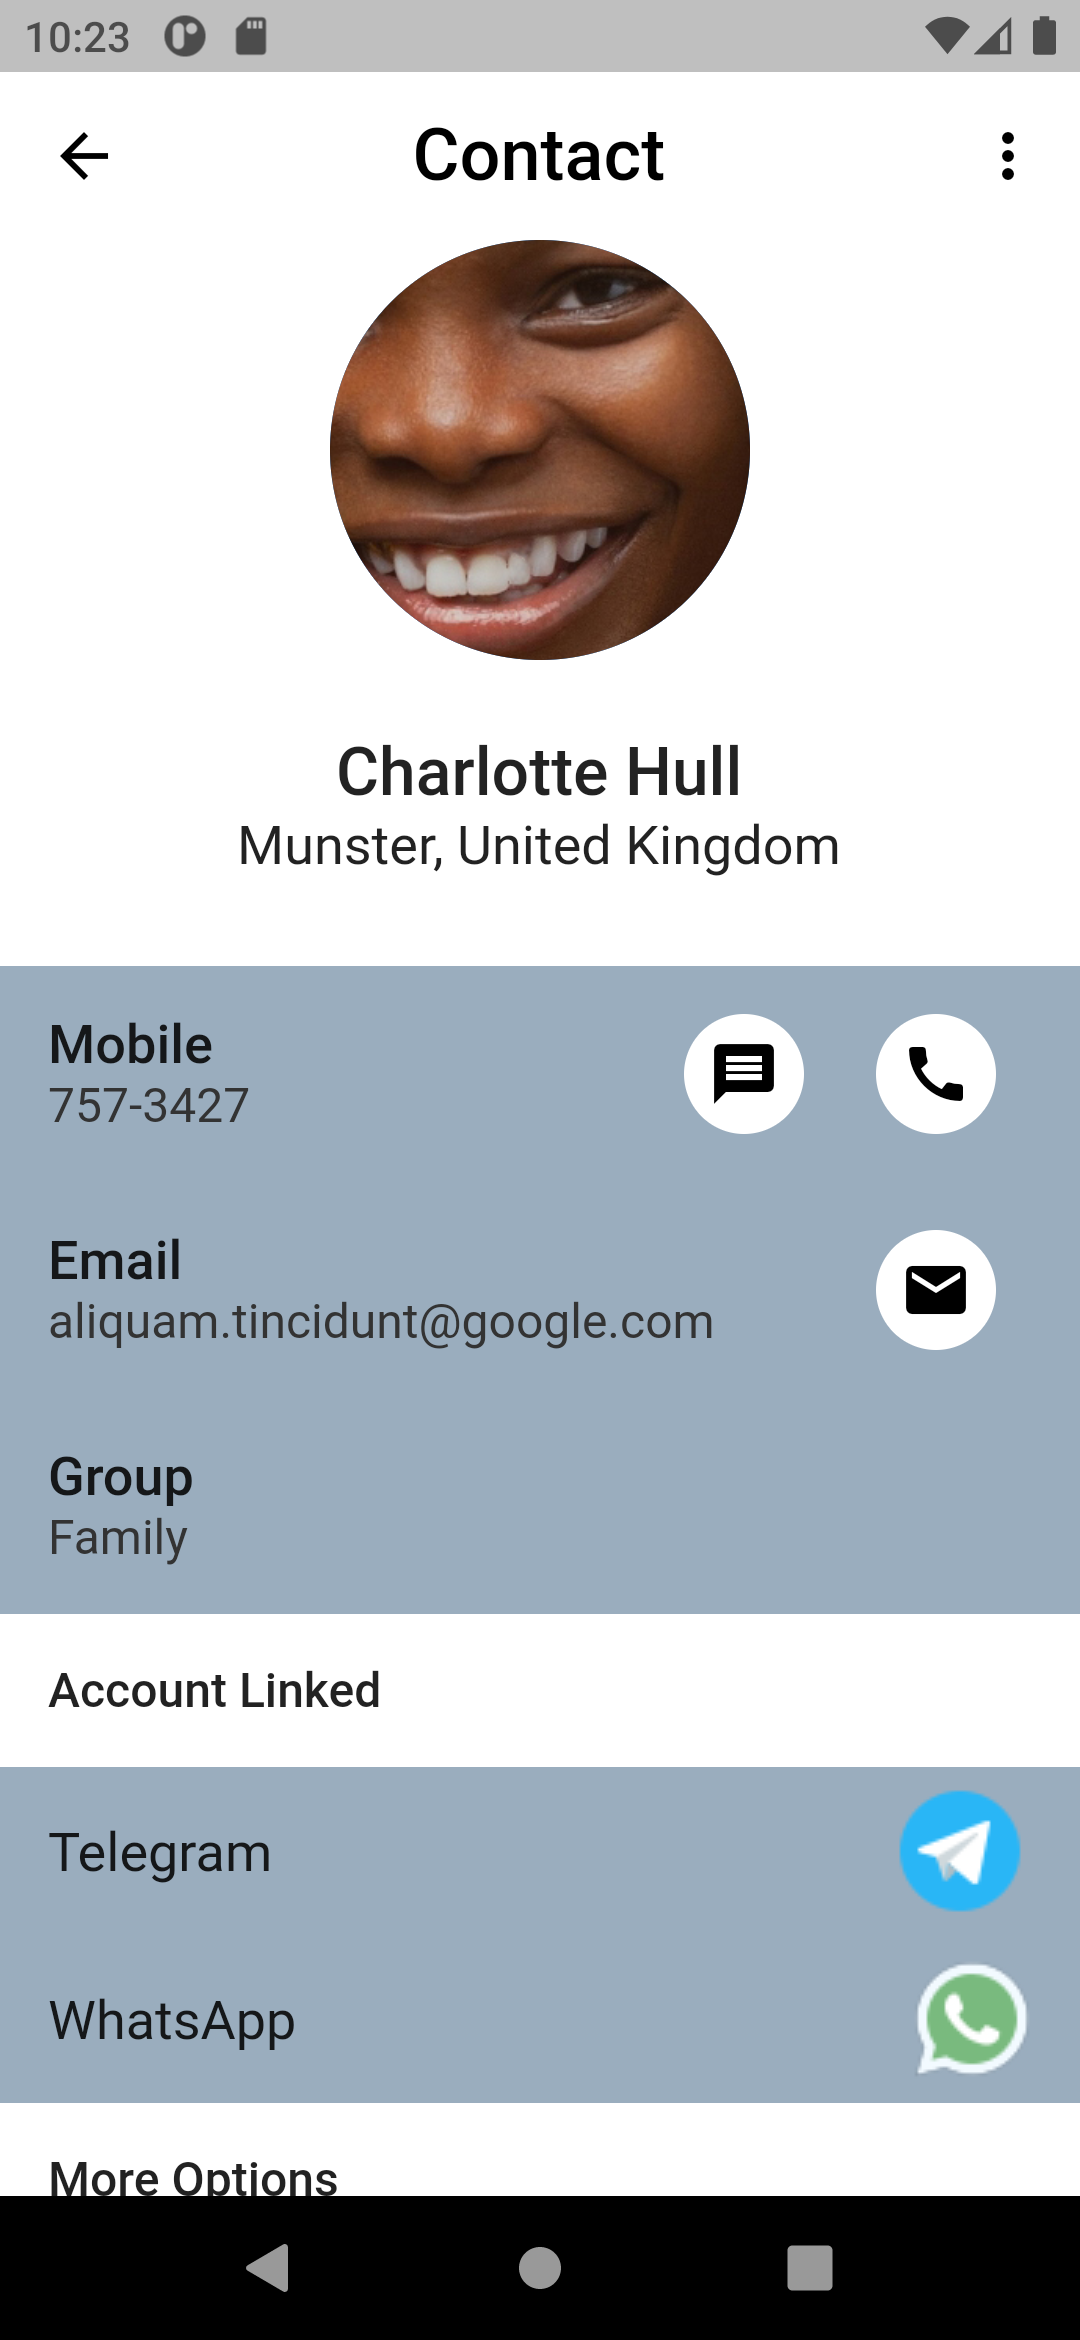
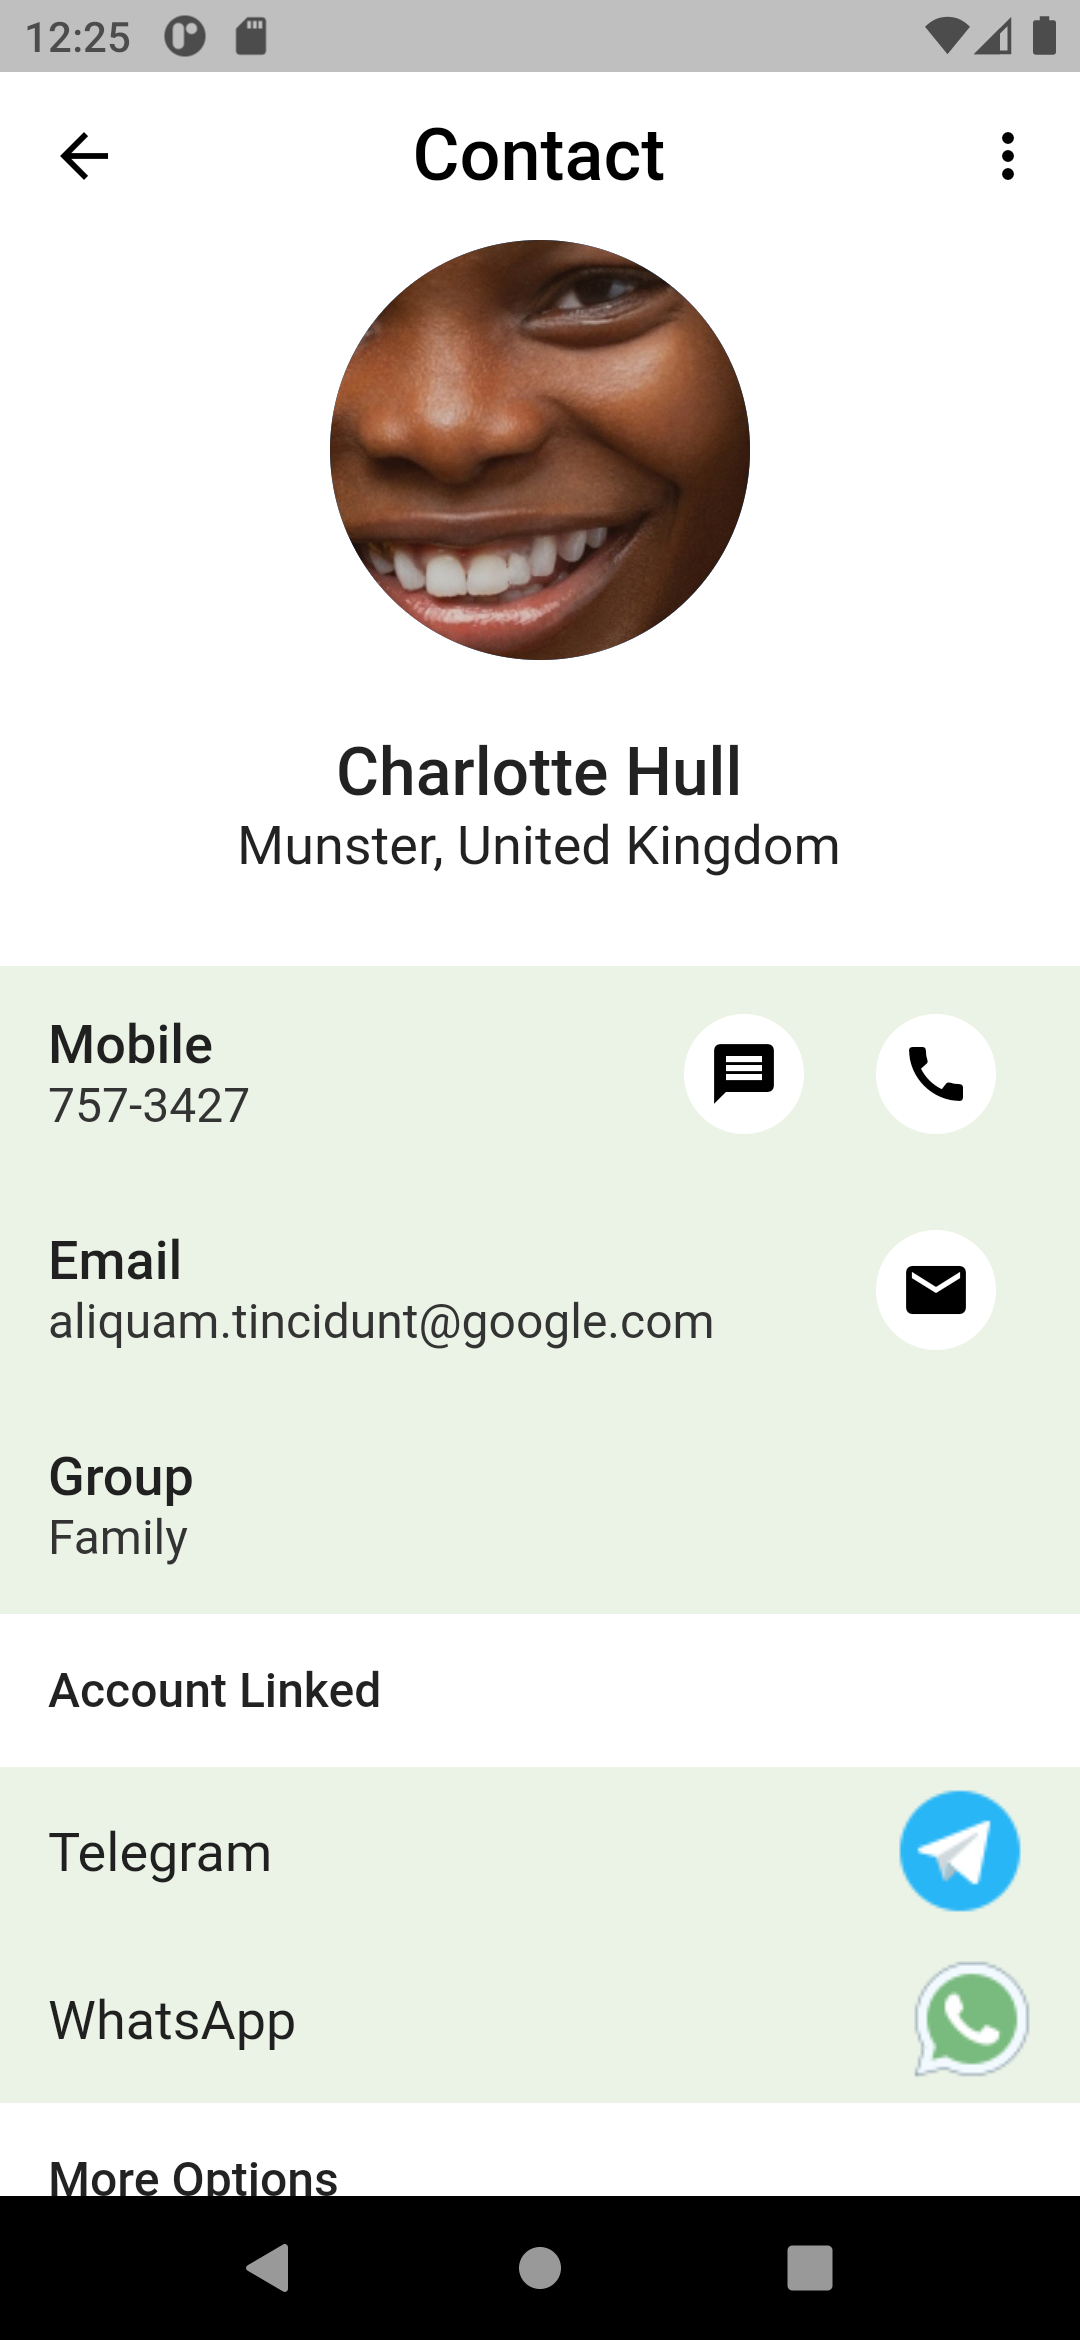
commit to master

diff --git a/lib/contactdetails.dart b/lib/contactdetails.dart
@@ -46,7 +46,7 @@ class ContactDetailsPage extends StatelessWidget {
         const  SizedBox(height: 30,),
 
           Container(
-            color: const Color(0xff9AADBE),
+            color: const Color(0xffebf3e6),
             child: Column(
               children: [
 
@@ -101,7 +101,7 @@ class ContactDetailsPage extends StatelessWidget {
           ),
 
           Container(
-            color: const Color(0xff9AADBE),
+            color: const Color(0xffebf3e6),
             child: Column(children: [
               ListTile(
                 title: const Text('Telegram', style: TextStyle(fontSize: 18),),
@@ -120,7 +120,7 @@ class ContactDetailsPage extends StatelessWidget {
           ),
 
          Container(
-          color: const Color(0xff9AADBE),
+          color: const Color(0xffebf3e6),
           child: Column(children: const [
 
             ListTile(

diff --git a/lib/homepage.dart b/lib/homepage.dart
@@ -221,9 +221,8 @@ class HomePage extends StatelessWidget {
       ),
 
       floatingActionButton: FloatingActionButton(
-        onPressed: (){
-
-        },
+        backgroundColor: const Color(0xff9dc284),
+        onPressed: (){},
         child: const Icon(Icons.add)),
     );
   }
